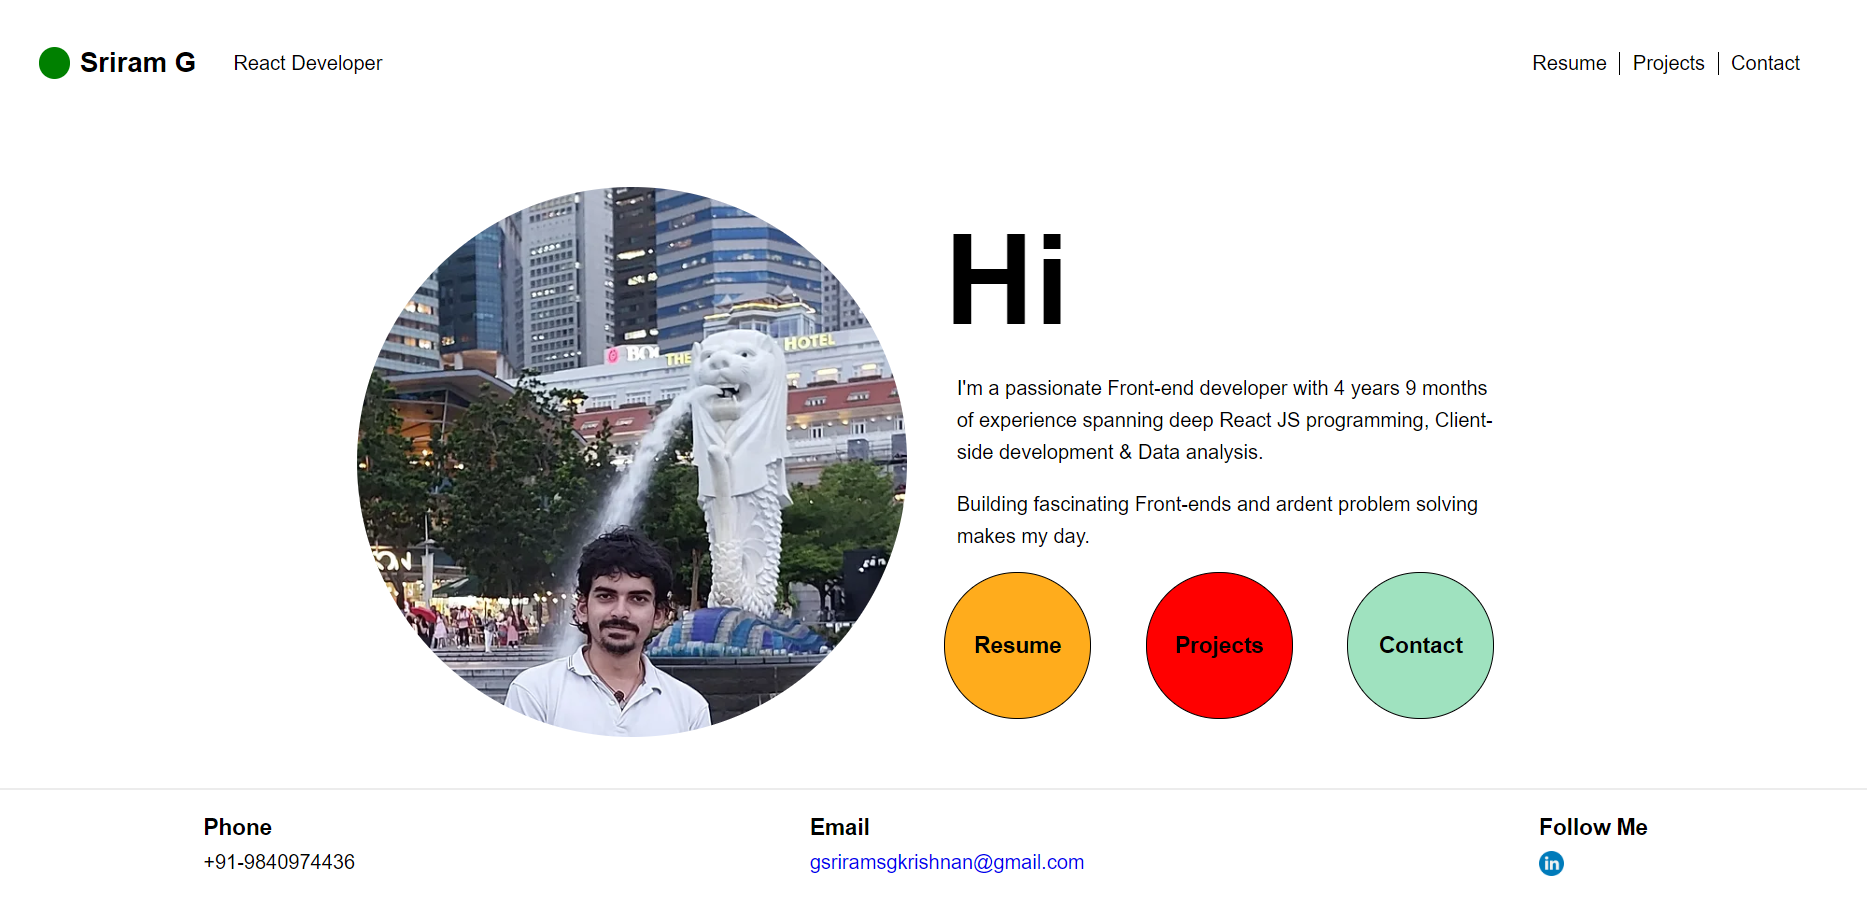
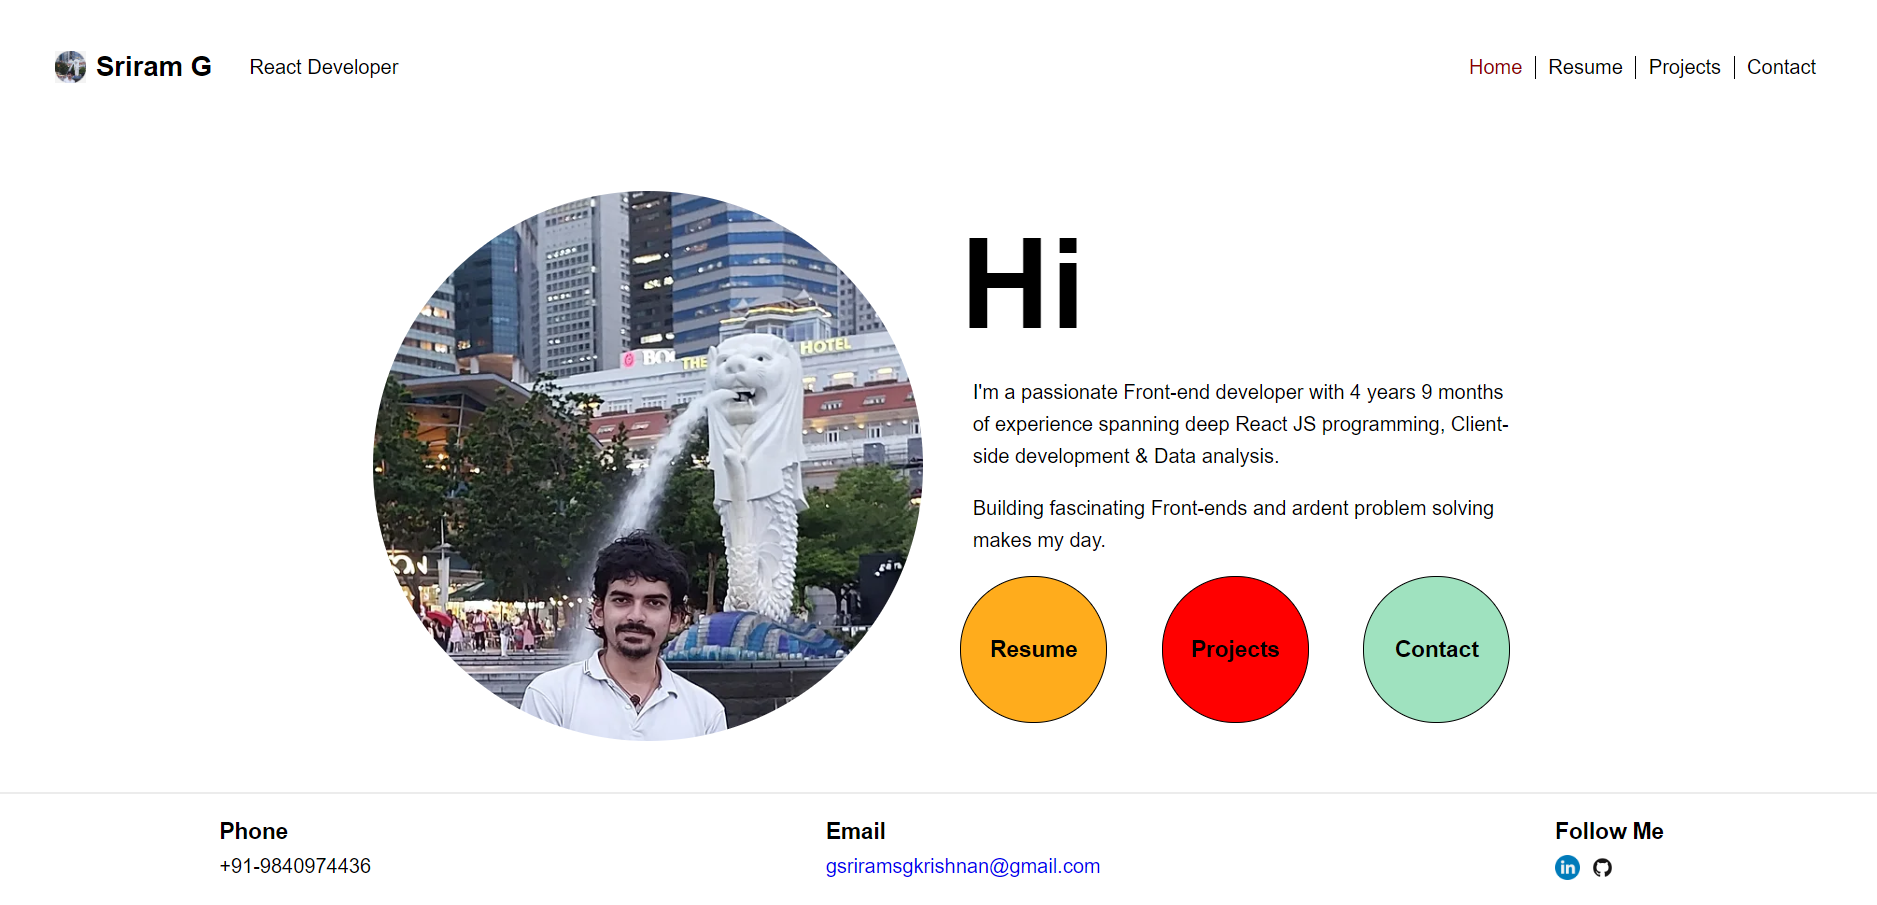
Improvements - Home page, Resume page

diff --git a/src/styles.css b/src/styles.css
@@ -35,6 +35,10 @@ body {
     background-color: green; 
     border-radius: 50%; 
 }
+.headerCont .left-end .nameCont .circle img{
+    width: 25px;
+    height: 25px;
+}
 .headerCont .left-end .nameCont .nameVal{
     margin-left: 8px;
     font-weight: bold;
@@ -44,6 +48,11 @@ body {
 .headerCont .right-end{
     display: flex;
     align-items: center;
+}
+.headerCont .right-end .home{
+    border-right: solid 1px #000000;
+    padding: 0px 10px;
+    cursor: pointer;
 }
 .headerCont .right-end .resume{
     border-right: solid 1px #000000;
@@ -60,12 +69,14 @@ body {
     cursor: pointer;
 }
 
+.headerCont .right-end .home:hover,
 .headerCont .right-end .resume:hover,
 .headerCont .right-end .projects:hover,
 .headerCont .right-end .contact:hover{
     color: #900000;
 }
 
+.headerCont .right-end .home.selected,
 .headerCont .right-end .resume.selected,
 .headerCont .right-end .projects.selected,
 .headerCont .right-end .contact.selected{
@@ -231,6 +242,16 @@ body {
     font-weight: bold;
     margin-left: 25px;
 }
+.contentCont.resume .resumeCont .details .eduCont .univLogo{
+    margin-left: 10px;
+    display: flex;
+    justify-content: center;
+    align-items: center;
+}
+.contentCont.resume .resumeCont .details .eduCont .univLogo img{
+    width: 100px;
+    height: 50px;
+}
 .contentCont.resume .resumeCont .details .eduCont .degree span{
     line-height: 1.6;
     font-size: 18px;
@@ -249,8 +270,31 @@ body {
 .contentCont.resume .resumeCont .details .expCont .jobDesc{
     margin-left: 25px;
 }
-.contentCont.resume .resumeCont .details .expCont .jobDesc .role{
+.contentCont.resume .resumeCont .details .expCont .jobDesc .company{
+    display: flex;
+}
+.contentCont.resume .resumeCont .details .expCont .jobDesc .company .logo{
+    margin-left: 15px;
+}
+.contentCont.resume .resumeCont .details .expCont .jobDesc .company .logo.Animaker img{
+    width: 50px;
+    height: 50px;
+}
+.contentCont.resume .resumeCont .details .expCont .jobDesc .company .logo.Zoho img{
+    width: 80px;
+    height: 40px;   
+}
+.contentCont.resume .resumeCont .details .expCont .jobDesc .company .logo.MuSigma img{
+    width: 40px;
+    height: 40px;
+}
+.contentCont.resume .resumeCont .details .expCont .jobDesc .company .info .name{
+    text-transform: uppercase;
     font-weight: bold;
+    margin-bottom: 8px;
+}
+.contentCont.resume .resumeCont .details .expCont .jobDesc .company .info .role{
+    font-style: italic;
     font-size: 18px;
 }
 .contentCont.resume .resumeCont .details .expCont .jobDesc .desc{

diff --git a/src/components/JobDescription.js b/src/components/JobDescription.js
@@ -1,3 +1,7 @@
+import animakerLogo from '../images/animakerLogo.png';
+import zohoLogo from '../images/zohoLogo.jpg';
+import muSigmaLogo from '../images/muSigmaLogo.jpg';
+
 function JobDescription({org}){
     
     const role = org === 'Animaker' ? 'React Developer' : org === 'Zoho' ? 'Member of Technical Staff' : org === 'MuSigma' ? 'Trainee Decision Scientist' : '';
@@ -34,9 +38,21 @@ function JobDescription({org}){
 
     const desc = org === 'Animaker' ? animakerDesc : org === 'Zoho' ? zohoDesc : org === 'MuSigma' ? muSigmaDesc : '';
 
+    const companyName = org === 'Animaker' ? 'Animaker Inc.' : org === 'Zoho' ? 'Zoho Corporation' : org === 'MuSigma' ? 'Mu Sigma Inc.' : '';
+
+    const companyLogo = org === 'Animaker' ? animakerLogo : org === 'Zoho' ? zohoLogo : org === 'MuSigma' ? muSigmaLogo : null;
+
     return(
         <div className="jobDesc">
-            <div className="role">{role}</div>
+            <div className='company'>
+                <div className='info'>
+                    <div className="name">{companyName}</div>
+                    <div className="role">{role}</div>
+                </div>
+                <div className={`logo ${org}`}>
+                    <img src={companyLogo} alt='companyLogo'/>
+                </div>
+            </div>
             <div className="desc">{desc}</div>
         </div>
     )

diff --git a/src/components/Header.js b/src/components/Header.js
@@ -18,6 +18,7 @@ function Header({switchContent, currentPage}){
                 <Role role='React Developer'/>
             </div>
             <div className="right-end">
+                <div className={`home ${currentPage === 'intro' ? 'selected' : ''}`} onClick={showIntro}>Home</div>
                 <div className={`resume ${currentPage === 'resume' ? 'selected' : ''}`} onClick={() => switchContent('resume')}>Resume</div>
                 <div className={`projects ${currentPage === 'projects' ? 'selected' : ''}`} onClick={() => switchContent('projects')}>Projects</div>
                 <div className={`contact ${currentPage === 'contact' ? 'selected' : ''}`} onClick={() => switchContent('contact')}>Contact</div>

diff --git a/src/components/Education.js b/src/components/Education.js
@@ -1,3 +1,5 @@
+import sastraLogo from '../images/sastraLogo.png';
+
 function Education({colg}){
     return(
         <div className="eduCont">
@@ -12,6 +14,9 @@ function Education({colg}){
             </div>
             <div className="degree">
                 <span>Bachelor of Technology | <br/> Computer Science & Engineering | <br/> SASTRA DEEMED UNIVERSITY</span>
+            </div>
+            <div className="univLogo">
+                <img src={sastraLogo} alt="university logo"/>
             </div>
         </div>
     )

diff --git a/src/components/Name.js b/src/components/Name.js
@@ -1,7 +1,11 @@
+import myPhoto from "../images/myPhoto.png";
+
 function Name({name, showIntro}){
     return(
         <div className="nameCont">
-            <div className="circle" onClick={showIntro}></div>
+            <div className="circle" onClick={showIntro}>
+                <img src={myPhoto} alt="my photo"/>
+            </div>
             <div className="nameVal" onClick={showIntro}>{name}</div>
         </div>
     )
